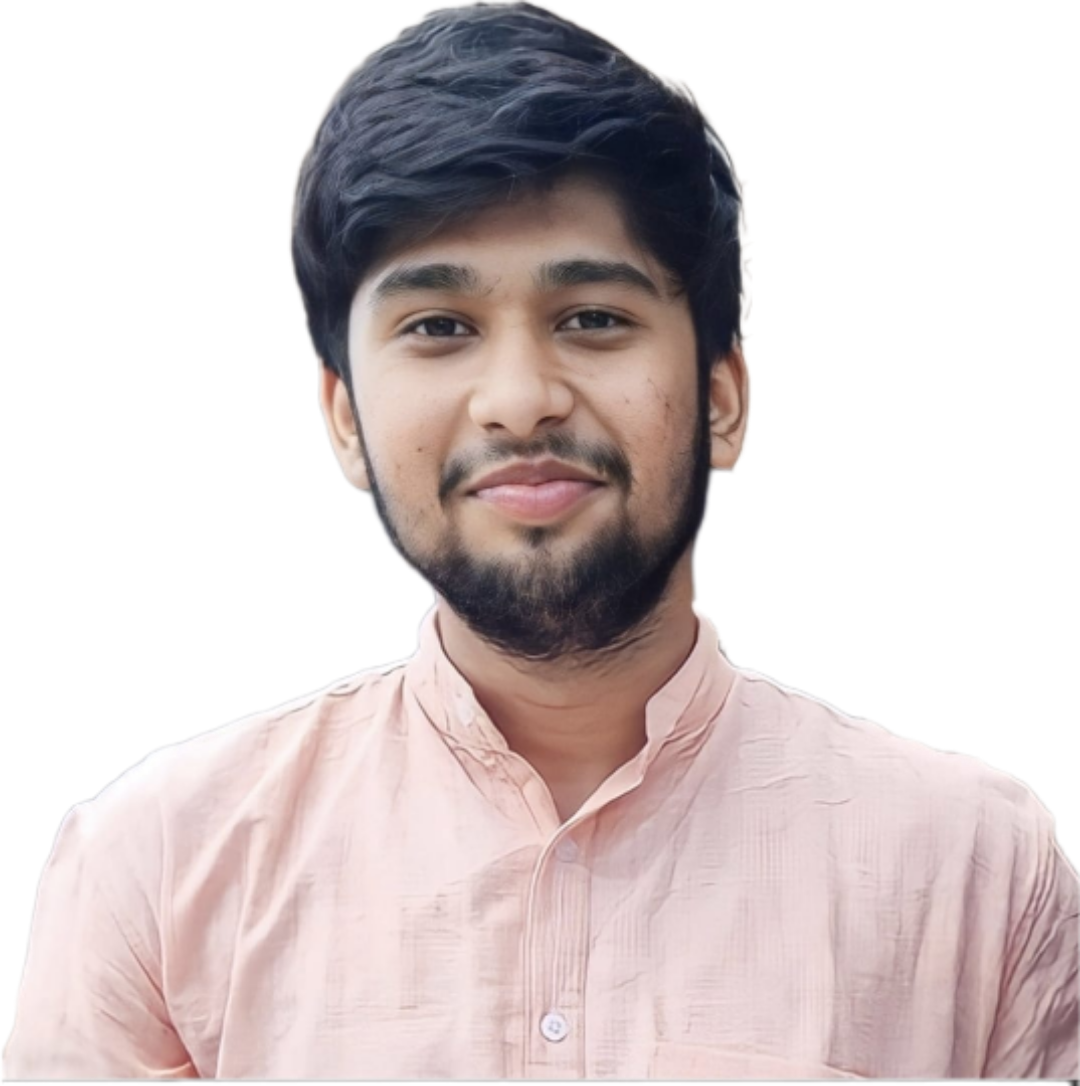
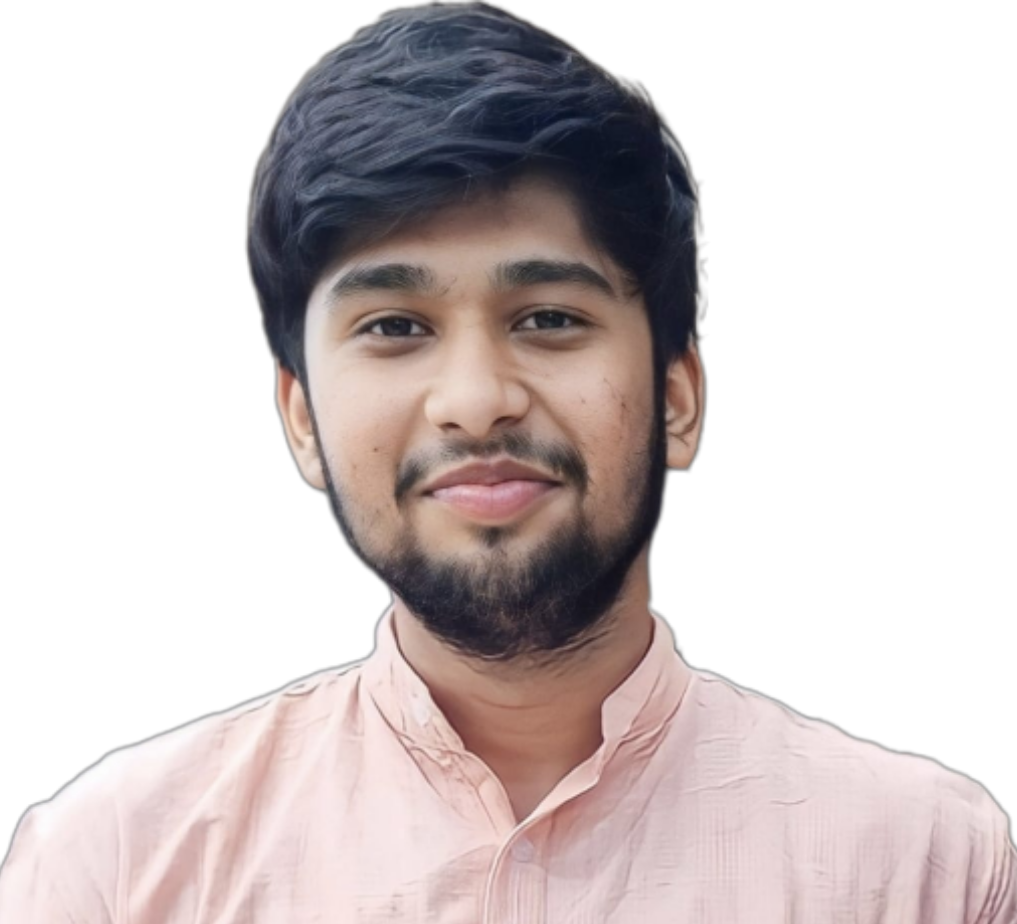
restyled main page and modified image

diff --git a/index.html b/index.html
@@ -2,6 +2,7 @@
 <html lang="en">
     <head>
         <script src="https://unpkg.com/boxicons@2.1.4/dist/boxicons.js"></script>
+        <link href='https://unpkg.com/boxicons@2.1.4/css/boxicons.min.css' rel='stylesheet'>
         <meta charset="UTF-8" />
         <meta name="viewport" content="width=device-width, initial-scale=1.0" />
         <title>Personal Portfolio</title>
@@ -24,22 +25,23 @@
 
         <section class="home">
             <div class="home-content">
-                <h3>Hello! It's</h3>
-                <h3>Rahul Banavathu</h3>
+                <h3>Hello! It's Me</h3>
+                <h1>Rahul Banavathu</h1>
                 <h3>And, I'm a <span>Full Stack Developer</span></h3>
                 <p>I develop full stack android and web applications.</p>
+                <div class="social-media">
+                    <a href=""><i class='bx bxl-linkedin-square'></i></a>
+                    <a href=""><i class='bx bxl-instagram'></i></a>
+                    <a href=""><i class='bx bxl-twitter' ></i></a>
+                    <a href=""><i class='bx bxl-discord-alt' ></i></a>
+    
+                </div>
+                <a href="" class="btn">Download Resume</a>
             </div>
-            <div class="social-media">
-                <box-icon name='menu'></box-icon>
-                <a href=""><box-icon name='linkedin-square' type='logo' ></box-icon></a>
-                <a href=""><box-icon name='instagram' type='logo' ></box-icon></a>
-                <a href=""><box-icon name='twitter' type='logo' ></box-icon></a>
-                <a href=""><box-icon name='discord-alt' type='logo' ></box-icon></a>
-
+            <div class="me-img">
+                <img src="./me.png" alt="">
             </div>
-            <a href="" class="btn">Download Resume</a>
         </section>
-
-        <script src="script.js"></script>
+            <script src="script.js"></script>
     </body>
 </html>

diff --git a/style.css b/style.css
@@ -24,9 +24,14 @@ body {
     background-color: var(--bg-color);
     color: var(--text-color);
 }
-section{
+section {
     min-height: 100vh;
-    padding: 10rem;
+    padding: 10rem 9% 2rem;
+}
+section img {
+    max-width: 500px;
+    max-height: 500px;
+    margin-left: 250px;
 }
 .header {
     position: fixed;
@@ -61,4 +66,56 @@ section{
     font-size: 3.6rem;
     color: var(--text-color);
     display: none;
+}
+.home {
+    display: flex;
+    justify-content: center;
+    align-items: center;
+}
+.home-content h3 {
+    font-size: 3rem;
+    font-weight: 700;
+}
+.home-content h3:nth-of-type(2){
+    margin-bottom: 2rem;
+}
+.home-content h1 {
+    font-size: 5.6rem;
+    font-weight: 700;
+    line-height: 1.3;
+}
+.home-content p {
+    font-size: 1.6rem;
+}
+span{
+    color: var(--main-color);
+}
+.social-media a {
+    color: var(--main-color);
+    display: inline-flex;
+    justify-content: center;
+    background: transparent;
+    align-items: center;
+    width: 4rem;
+    height: 4rem;
+    border: 0.2rem solid var(--main-color);
+    border-radius: 50%;
+    font-size: 2rem;
+    margin: 3rem 1.5rem;
+    transition: .2s ease;
+}
+.social-media a:hover{
+    background: var(--main-color);
+    color: var(--second-bg-color);
+    box-shadow: 0 0 1rem var(--main-color);
+}
+.btn{
+    display: inline-block;
+    font-size: 1.6rem;
+    padding: 1rem 2.8rem;
+    background: var(--main-color);
+    border-radius: 4rem;
+    box-shadow: 0 0 1 var(--main-color);
+    color: var(--second-bg-color);
+    font-weight: 600;
 }
